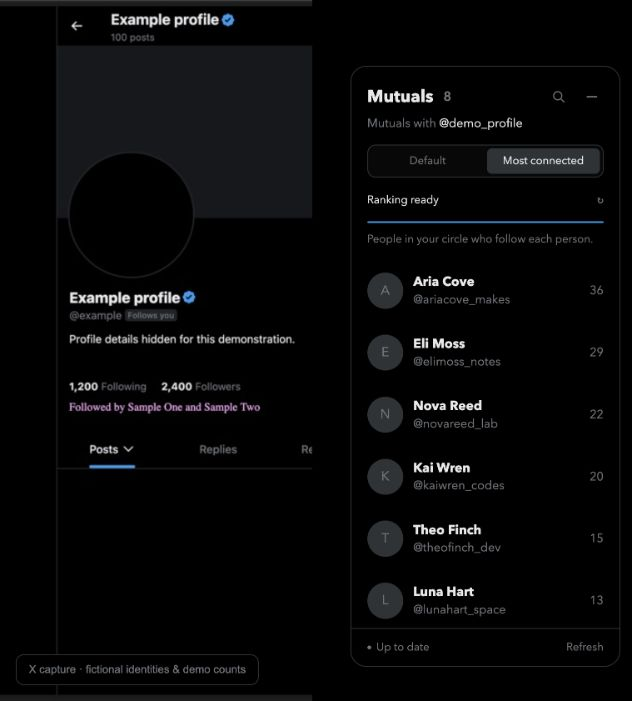
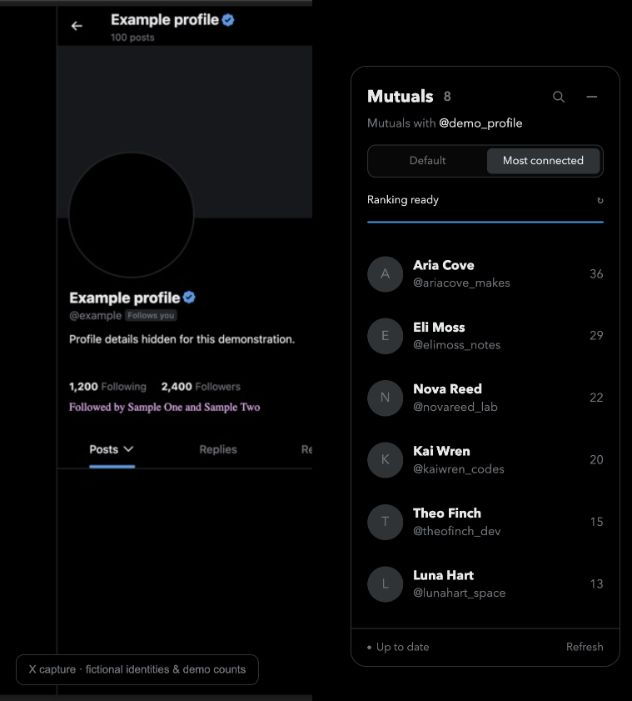
Sort mutuals on every completed result and simplify ranking copy

diff --git a/content.js b/content.js
@@ -142,8 +142,6 @@
   }
   function updateRankOrder() {
     if(!rankJob)return;
-    const list=root?.querySelector('.people');
-    if(list?.matches(':hover') || root?.activeElement?.closest('.person'))return;
     rankJob.order=new Map([...(records.get(rankJob.handle)?.users ?? [])].sort(compareRanks).map((user,index)=>[user.id,index]));
     rankJob.sinceSort=0;rankJob.lastSort=performance.now();rankVersion++;schedule();
   }
@@ -202,7 +200,7 @@
         ranks.set(user.id,{count:result.count,complete:result.complete,time:Date.now(),reason:result.reason});
         while(ranks.size>1000)ranks.delete(ranks.keys().next().value);
         job.sinceSort++;
-        if(job.sinceSort>=4 || performance.now()-job.lastSort>=4000)updateRankOrder();
+        updateRankOrder();
         rankVersion++;schedule();
         if(!result.complete && !/page limit/.test(result.reason)){rankMessage=result.reason;break;}
       }
@@ -308,7 +306,7 @@
         progress.append(info,button);controls.append(progress);
         const track=el('div','rank-track'),fill=el('div','rank-fill');fill.style.width=`${checked/record.users.length*100}%`;track.append(fill);controls.append(track);
         const partial=record.users.some(user=>ranking(user)&&!ranking(user).complete);
-        controls.append(el('div','rank-detail',rankMessage || (rankJob?'Counts arrive one by one. Order updates gently.':partial?'Sorted by known counts · + means at least':'People in your circle who follow each person.')));
+        if(rankMessage || partial)controls.append(el('div','rank-detail',rankMessage || 'Partial counts shown with +'));
 
       }
       heading.append(controls);

diff --git a/README.md b/README.md
@@ -53,7 +53,7 @@ If X changes its endpoint or rejects authorization, select **Open X’s mutuals 
 
 ## Most connected
 
-Select **Most connected** once to calculate the list automatically. Counts arrive one person at a time: the active row has a spinner, queued rows show quiet dots, and a thin progress line tracks completion. Use **Pause / Resume** at any time. The list gently reorders after four completed people or four seconds of progress. Reordering waits while you hover over the list or focus a person, so links do not move out from under you.
+Select **Most connected** once to calculate the list automatically. Counts arrive one person at a time: the active row has a spinner, queued rows show quiet dots, and a thin progress line tracks completion. Use **Pause / Resume** at any time. The list reorders immediately as each person’s count arrives.
 
 Requests are sequential. When X supplies rate-limit headers, pacing adapts to the remaining allowance and reset time, reserving five requests. Without headers, requests wait one second after each response. When the reported allowance reaches the reserve, calculation waits for the reset and continues automatically. Actual rate-limit errors and other failures stop the run; failed requests are not retried automatically. Completed counts are cached, so resuming skips them. Tabs use a same-origin Web Lock to prevent simultaneous ranking runs for the same signed-in account when supported.
 

diff --git a/INSTALL.md b/INSTALL.md
@@ -33,7 +33,7 @@ Requires Firefox engine 140+. Temporary add-ons disappear when the browser resta
 
 The number next to each person means **how many accounts you follow also follow that person**. It is not their follower count or their connections to everyone in the sidebar.
 
-Checked people sort from highest known count to lowest; unchecked people show `—` and stay below them. Ordering updates after four completed people or four seconds of progress, and waits while you hover over the list or focus a person. `20+` means at least 20, not an exact total. A partial ranking is not a definitive top list. Each person is checked for up to two pages. Incomplete results are not automatically expanded; opening that person’s profile can produce a fuller cached count. Result caches last five minutes and are cleared on reload or account change.
+Checked people sort from highest known count to lowest; unchecked people show `—` and stay below them. Ordering updates immediately as each person’s count arrives. `20+` means at least 20, not an exact total. A partial ranking is not a definitive top list. Each person is checked for up to two pages. Incomplete results are not automatically expanded; opening that person’s profile can produce a fuller cached count. Result caches last five minutes and are cleared on reload or account change.
 
 ## Update or remove
 
